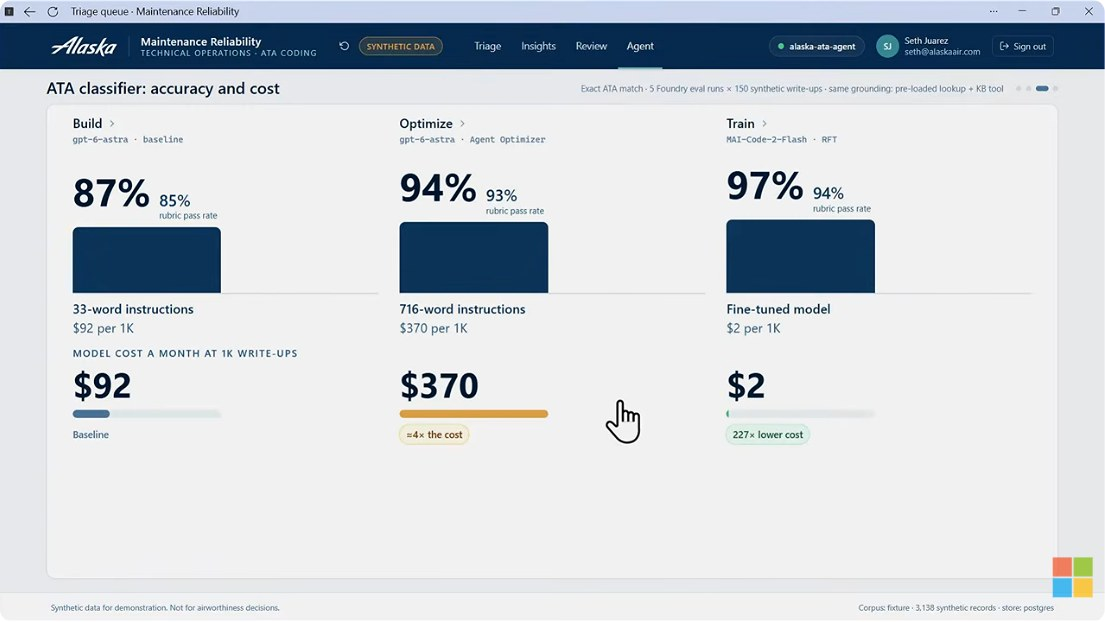
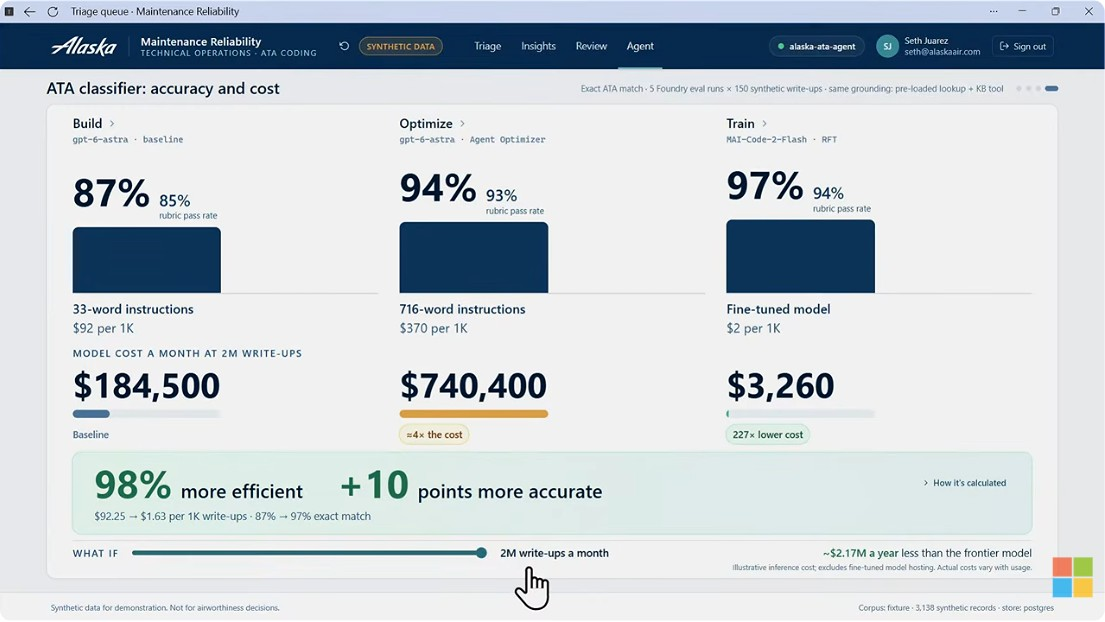
Update Alaska Airlines case with final slide and 2M write-ups cost table

diff --git a/_posts/2026-11-18-ignite-2026-keynote-recap.md b/_posts/2026-11-18-ignite-2026-keynote-recap.md
@@ -133,13 +133,15 @@ Microsoft IQ 시연에서는, 클레임 분석가가 Copilot에게 질문하면 
 
 ![Alaska Airlines 에이전트 개선 결과](../assets/images/junghunlee/fig26_alaska_airlines_result.jpg)
 
-| 단계 | 방법 | 정확도(정확히 일치) | 1,000건 처리 비용 |
-|---|---|---|---|
-| Build | 기본 모델에 33단어짜리 지시문 | 87% | 92달러 |
-| Optimize | Foundry 옵티마이저가 지시문과 도구 설명을 716단어로 개선 | 94% | 370달러 (약 4배) |
-| Train | 지시문의 내용을 모델에 학습시킴(파인튜닝, MAI Code 2 Flash) | 97% | 2달러 (227배 저렴) |
+| 단계 | 방법 | 정확도(정확히 일치) | 1,000건 처리 비용 | 월 200만 건 처리 시 월 비용 |
+|---|---|---|---|---|
+| Build | 기본 모델(gpt-6-astra)에 33단어짜리 지시문 | 87% | 92달러 | 약 184,500달러 |
+| Optimize | Foundry 옵티마이저가 지시문과 도구 설명을 716단어로 개선 | 94% | 370달러 (약 4배) | 약 740,400달러 |
+| Train | 지시문의 내용을 모델에 학습시킴(파인튜닝, MAI Code 2 Flash) | 97% | 2달러 (227배 저렴) | 약 3,260달러 |
 
-흐름이 흥미롭습니다. 지시문을 길게 써서 정확도를 높이면 요청할 때마다 읽는 글이 많아져 **비용이 4배**로 늘었습니다. 그래서 "지시문에 쌓인 지식을 모델 안에 직접 학습시키는" 방법으로, 정확도는 더 높이고 비용은 크게 낮췄습니다. 지시문이 길어지면 그 내용을 모델에 학습시키는 것을 고려해 볼 수 있습니다. 
+Build 대비 Train은 정확도가 **10%p 높고(87% → 97%)**, 1,000건당 비용은 **92.25달러에서 1.63달러로 98% 줄었습니다.** 월 200만 건을 처리한다고 가정하면 최고 성능 모델을 쓸 때보다 연간 약 217만 달러를 아낄 수 있다는 계산입니다. 이 비용은 예시를 위한 추정치이며, 파인튜닝한 모델의 호스팅 비용은 포함되어 있지 않고 실제 비용은 사용량에 따라 달라진다고 화면에 표시되어 있습니다.
+
+흐름이 흥미롭습니다. 지시문을 길게 써서 정확도를 높이면 요청할 때마다 읽는 글이 많아져 **비용이 4배**로 늘었습니다. 그래서 "지시문에 쌓인 지식을 모델 안에 직접 학습시키는" 방법으로, 정확도는 더 높이고 비용은 크게 낮췄습니다. 지시문이 길어지면 그 내용을 모델에 학습시키는 것을 고려해 볼 수 있습니다. (150건 데이터 시연 결과)
 
 **핵심 메시지**: 에이전트는 "한 번 만들고 끝"이 아닙니다. 평가 기준을 정하고, 측정하고, 개선하는 과정을 반복하면 **정확도와 비용을 함께** 잡을 수 있습니다. 
 
